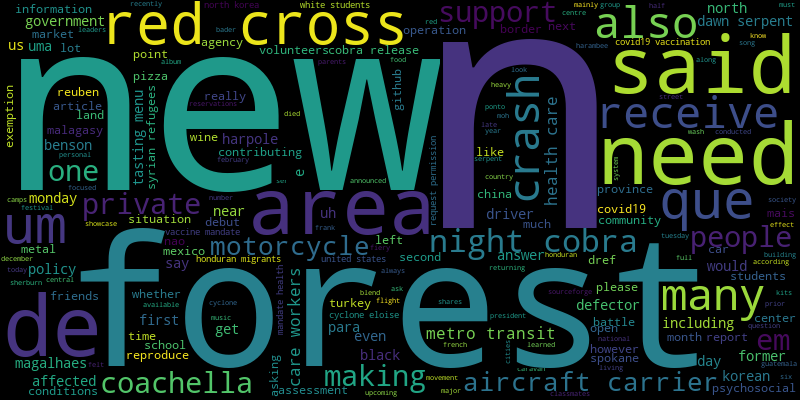
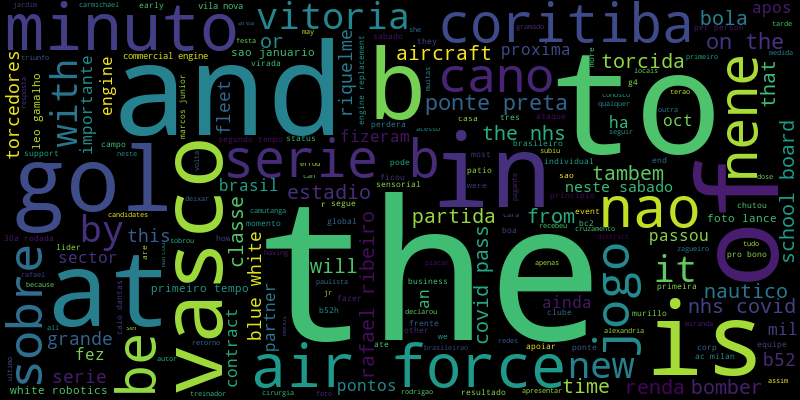
Adding Menu page

diff --git a/templates/index.html b/templates/index.html
@@ -1,0 +1,18 @@
+<!DOCTYPE html>
+<html>
+<body>
+<h1 style="text-align: center;"><span style="color:#0000CD;">Op&ccedil;&otilde;es do sistema</span></h1>
+
+<h2>Buscar Not&iacute;cias:</h2>
+
+<p><input name="searchNews" type="text" /><input name="searchNewsButton" type="button" value="Search" /></p>
+
+<h2>Buscar Trending Topics por Pa&iacute;s:</h2>
+
+<p><input name="trendingTopicsSearch" type="text" /><input name="trendingTopicsButton" type="button" value="Search" /></p>
+
+<h2>Buscar Tweets com palavra-chave:</h2>
+
+<p><input name="keywordTweet" type="text" /><input name="keywordButton" type="button" value="Search" /></p>
+</body>
+</html>

diff --git a/utils/utils.py b/utils/utils.py
@@ -394,22 +394,24 @@ def collectTweetBasedOnPreferenceAndAnalyze(keyword, language):
     :param language:
     :return:
     """
-
+    ORIGINALTEXT = 1
+    ANALYZEDTEXT = 2
     api = tweepy.API(auth)
 
-    result = tweepy.API.search_tweets
-    result = api.search_tweets(keyword, lang=language, result_type="mixed",count=50)
+
+    result = api.search_tweets(keyword, lang=language, result_type="mixed",count=50,tweet_mode='extended')
 
     tweets = []
     for index in range(result.count):
-            tweet = [result[index]._json['user']['name'], result[index]._json['text'], result[index]._json['created_at']]
+            tweet = [result[index]._json['user']['name'], result[index]._json['full_text'], "",
+                     result[index]._json['created_at']]
             tweets.append(tweet)
 
     for row in range(result.count):
-        tweets[row][1] = clean_html(tweets[row][1])
-        tweets[row][1] = remove_punctuation(tweets[row][1])
-        tweets[row][1] = remove_stopwords(tweets[row][1], language)
-        tweets[row][1] = tweets[row][1].lower()
+        tweets[row][ANALYZEDTEXT] = clean_html(tweets[row][ORIGINALTEXT])
+        tweets[row][ANALYZEDTEXT] = remove_punctuation(tweets[row][ANALYZEDTEXT])
+        tweets[row][ANALYZEDTEXT] = remove_stopwords(tweets[row][ANALYZEDTEXT], language)
+        tweets[row][ANALYZEDTEXT] = tweets[row][ANALYZEDTEXT].lower()
 
     plotWordCloud(tweets, language,"twiter.png")
 

diff --git a/main.py b/main.py
@@ -5,6 +5,7 @@ from api import news_api
 from utils import utils
 from flask import Flask, render_template,jsonify
 
+
 app = Flask(__name__)
 PAGE_SIZE = 20
 
@@ -18,13 +19,14 @@ WOIED = {
 
 # use decorators to link the function to a url
 @app.route('/')
-def home():
+def index():
     # http://192.168.1.23:5000/
-    return "Server online!"
+    return render_template('index.html')
 
 
 @app.route('/searchNews/<temas>/<language>')
 def searchNews(temas, language='en'):
+    # TODO arrumar temas com espaços
     # http://192.168.1.23:5000/searchNews/brasil/pt
 
     inicio = time.time()
@@ -85,3 +87,4 @@ def keywordTwitterSearch(keyword, language='en'):
 
 if __name__ == "__main__":
     app.run(debug=True, host='192.168.1.23')
+
